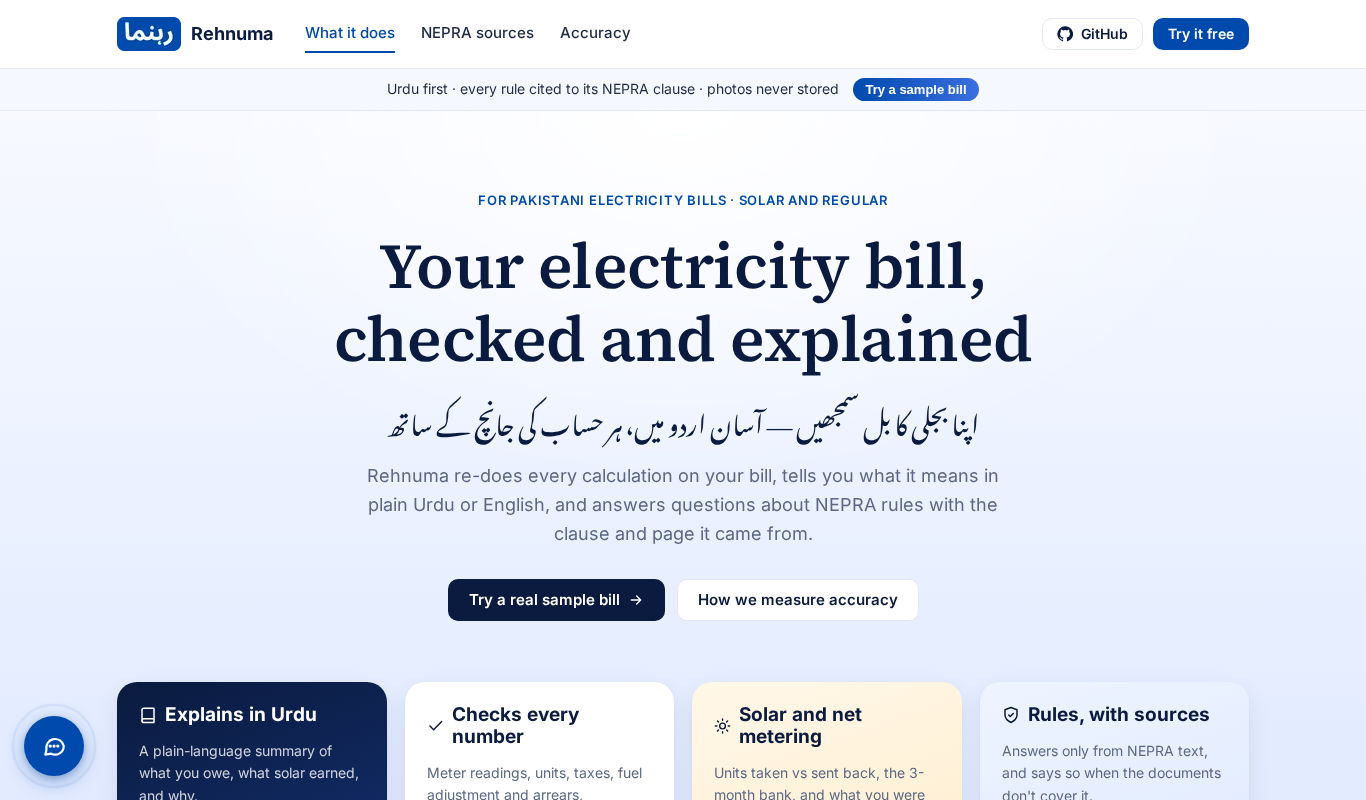
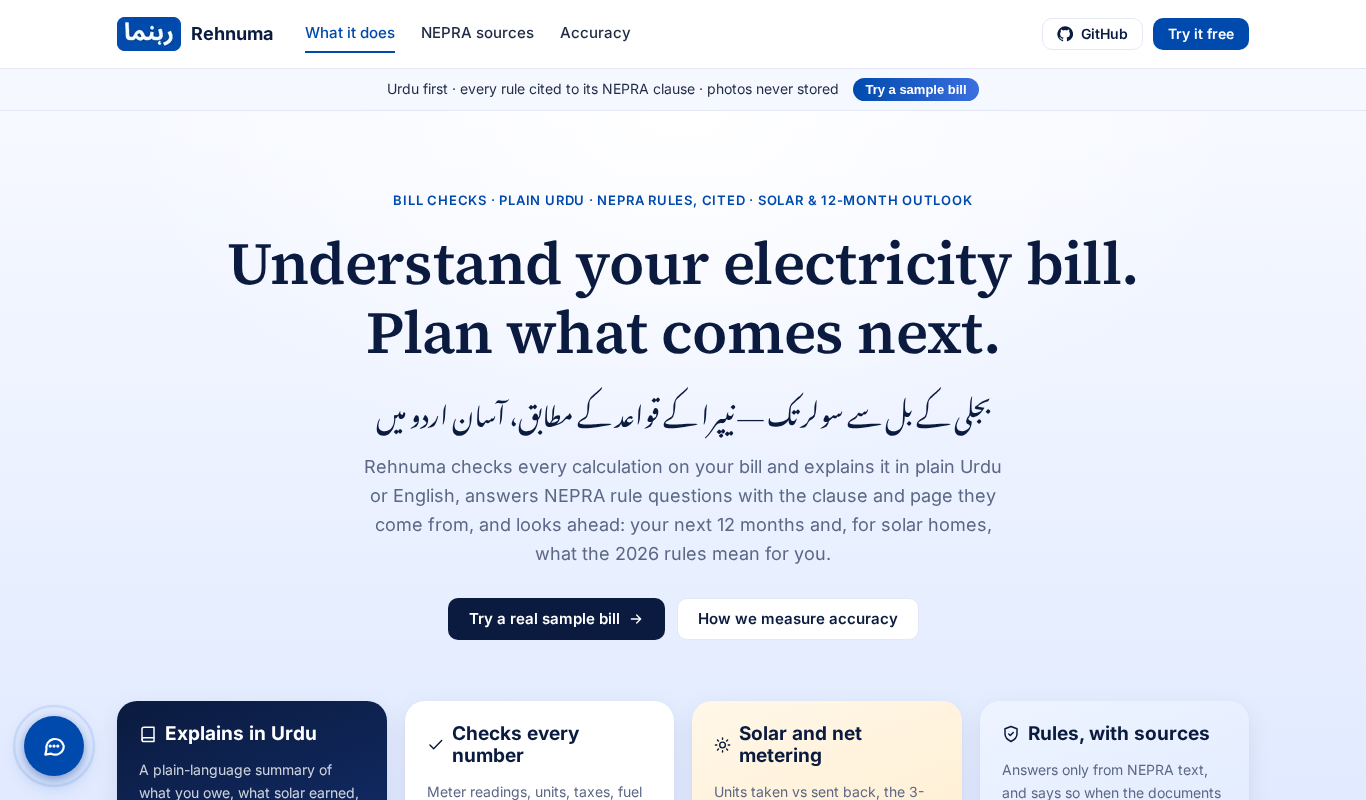
Broader headline: bill first, plus outlook and solar

diff --git a/web/src/app/page.tsx b/web/src/app/page.tsx
@@ -27,14 +27,19 @@ function Hero() {
     <section className="hero">
       <div className="wrap">
         <div className="hero-copy">
-          <span className="eyebrow">For Pakistani electricity bills · Solar and regular</span>
-          <h1>Your electricity bill, checked and explained</h1>
+          <span className="eyebrow">Bill checks · Plain Urdu · NEPRA rules, cited · Solar &amp; 12-month outlook</span>
+          <h1>
+            Understand your electricity bill.
+            <br />
+            Plan what comes next.
+          </h1>
           <p className="hero-urdu urdu" dir="rtl">
-            اپنا بجلی کا بل سمجھیں — آسان اردو میں، ہر حساب کی جانچ کے ساتھ
+            بجلی کے بل سے سولر تک — نیپرا کے قواعد کے مطابق، آسان اردو میں
           </p>
           <p className="hero-sub">
-            Rehnuma re-does every calculation on your bill, tells you what it means in plain Urdu or
-            English, and answers questions about NEPRA rules with the clause and page it came from.
+            Rehnuma checks every calculation on your bill and explains it in plain Urdu or English,
+            answers NEPRA rule questions with the clause and page they come from, and looks ahead:
+            your next 12 months and, for solar homes, what the 2026 rules mean for you.
           </p>
           <div className="hero-cta">
             <OpenChatButton className="btn btn-dark" sampleId="pesco-2026-09">

diff --git a/web/src/app/layout.tsx b/web/src/app/layout.tsx
@@ -12,11 +12,11 @@ import { Nav } from "@/components/Nav";
 
 export const metadata: Metadata = {
   title: {
-    default: "Rehnuma · رہنما — your electricity bill, checked and explained",
+    default: "Rehnuma · رہنما — understand your electricity bill, plan what comes next",
     template: "%s · Rehnuma",
   },
   description:
-    "An AI copilot for Pakistani electricity bills: audits every calculation, explains the bill in Urdu or English, and answers NEPRA rule questions with citations to the official documents.",
+    "An AI copilot for Pakistani electricity bills: audits every calculation, explains the bill in Urdu or English, answers NEPRA rule questions with citations, and looks ahead - the next 12 months and, for solar homes, what the 2026 rules mean.",
 };
 
 export default function RootLayout({ children }: LayoutProps<"/">) {

diff --git a/web/src/app/globals.css b/web/src/app/globals.css
@@ -269,7 +269,7 @@ p {
 
 .hero-copy {
   text-align: center;
-  max-width: 820px;
+  max-width: 980px;
   margin: 0 auto;
 }
 
@@ -284,7 +284,8 @@ p {
 }
 
 .hero h1 {
-  font-size: clamp(38px, 6vw, 64px);
+  font-size: clamp(29px, 5.4vw, 60px);
+  text-wrap: balance;
 }
 
 .hero-urdu {

diff --git a/README.md b/README.md
@@ -1,5 +1,7 @@
 # Rehnuma (رہنما) — an AI copilot for Pakistani electricity bills
 
+**Understand your electricity bill. Plan what comes next.** · *بجلی کے بل سے سولر تک — نیپرا کے قواعد کے مطابق، آسان اردو میں*
+
 [![CI](https://github.com/MoZainUlAbideen/rehnuma/actions/workflows/ci.yml/badge.svg)](https://github.com/MoZainUlAbideen/rehnuma/actions/workflows/ci.yml)
 
 **[Live demo](https://rehnuma-kappa.vercel.app)** · [API docs](https://rehnuma-api-3e5t.onrender.com/docs)
